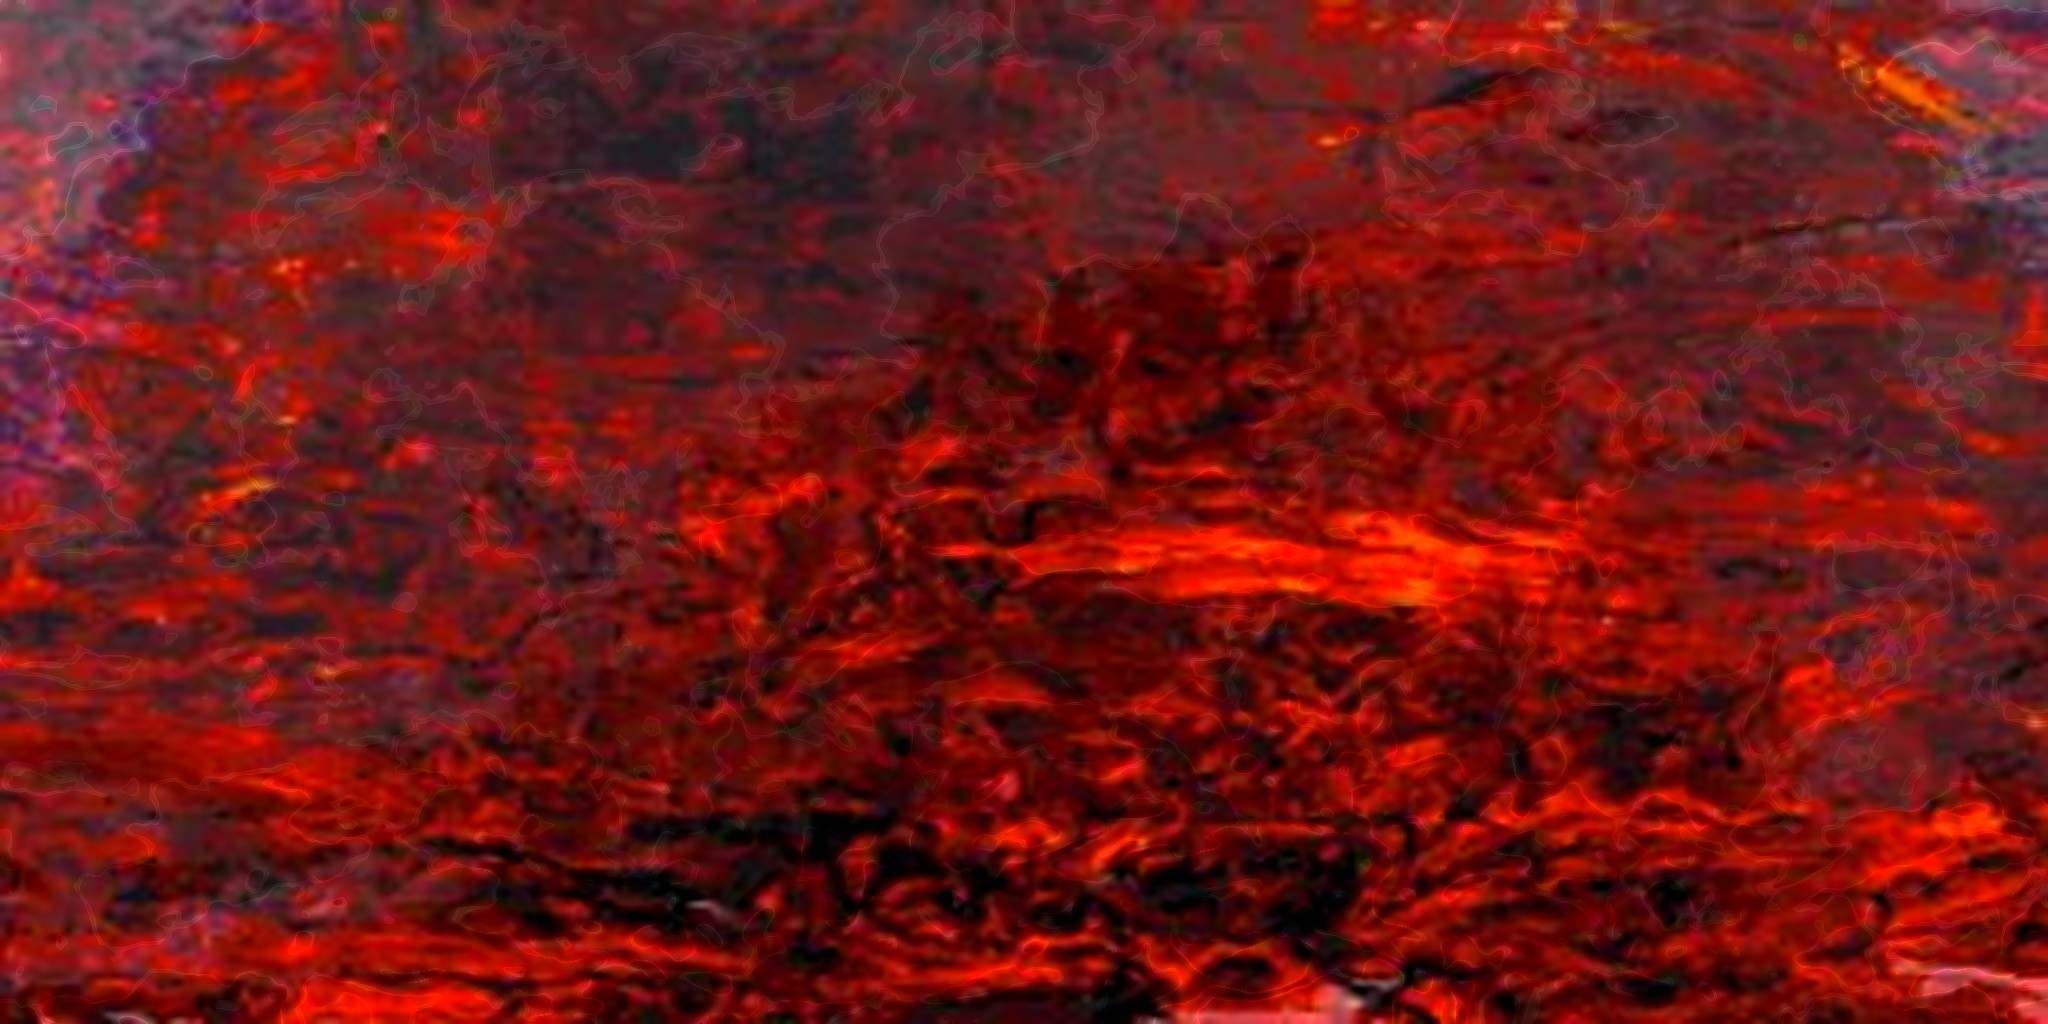
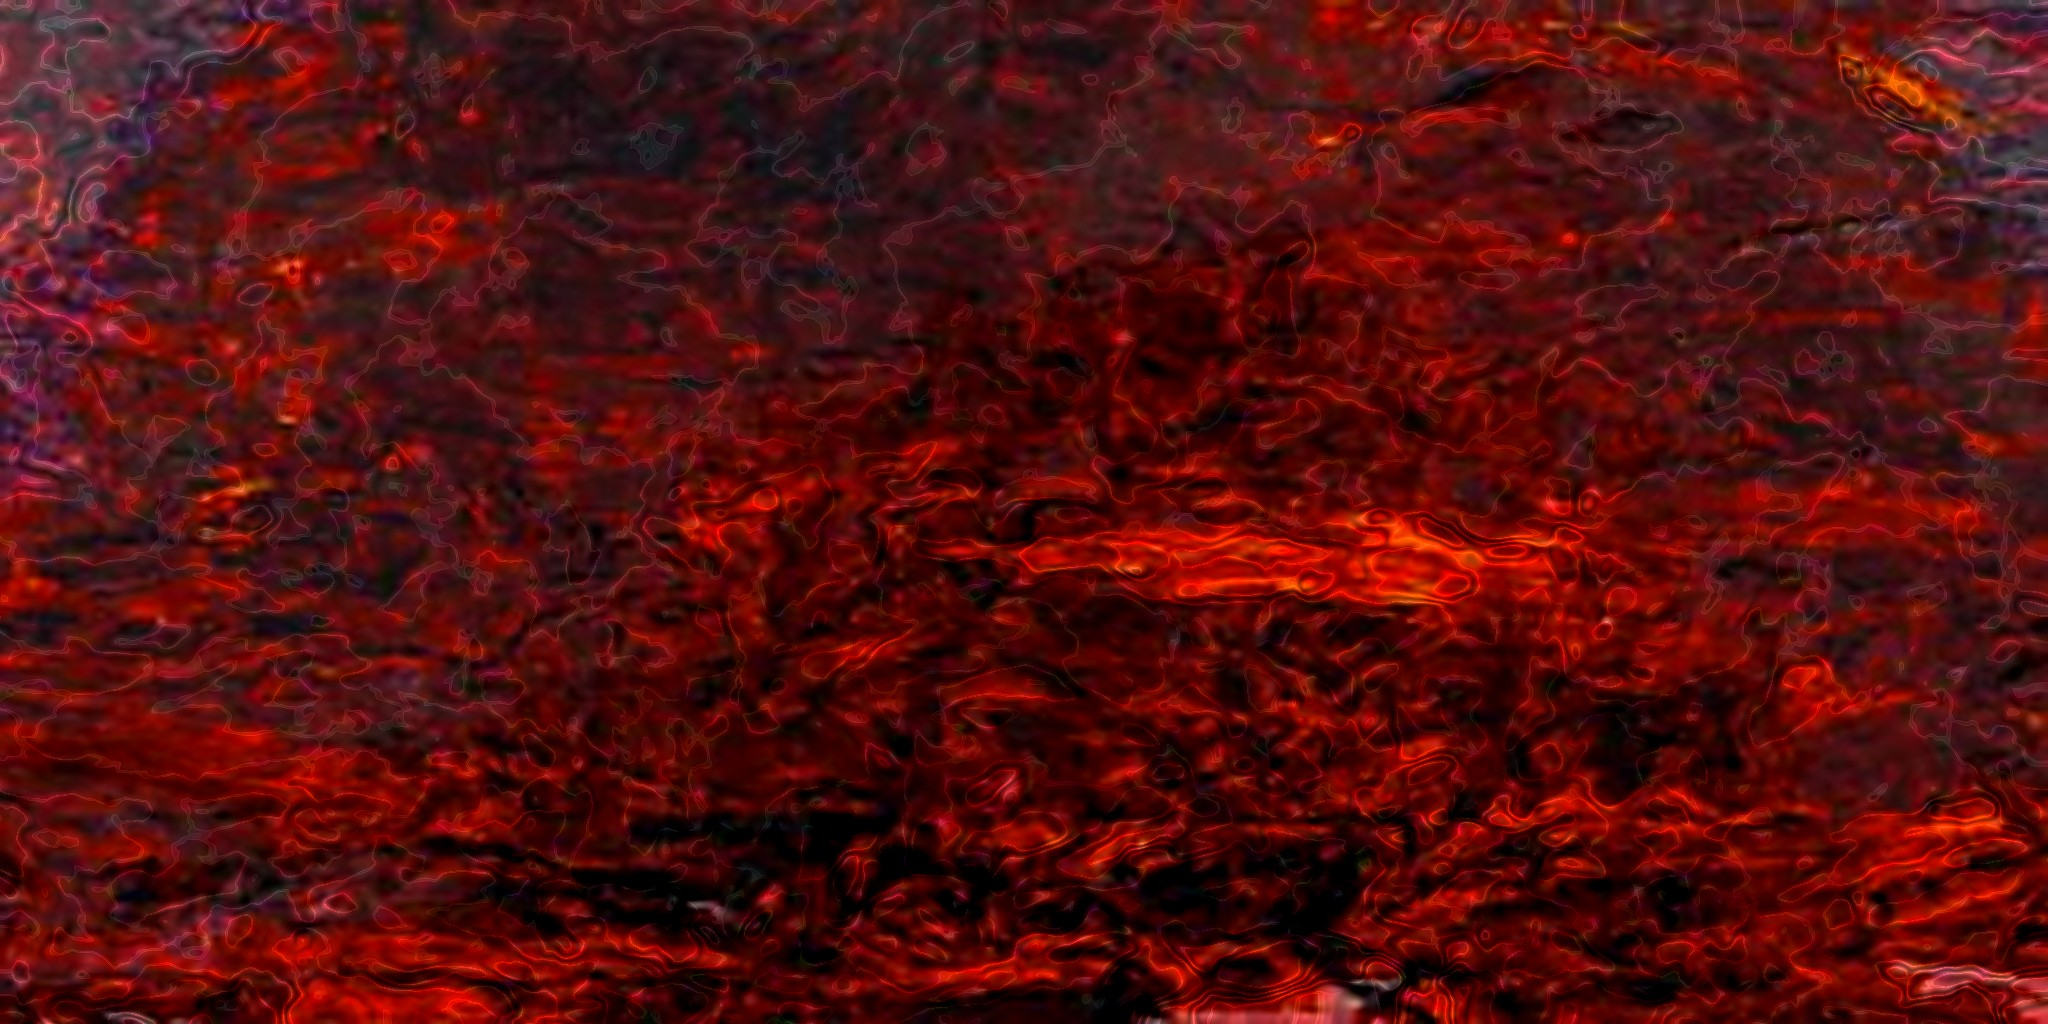
Abalone: darker, more detailed shell (finer layering, smaller pattern, softer gloss)
Claude-Session: https://claude.ai/code/session_01NhV1qVazYq5ooRpGrUVYTv

diff --git a/rod-builder/rod.html b/rod-builder/rod.html
@@ -519,7 +519,7 @@ function sleeve(x0, x1, over, mat, seg = 64) {
   g.setIndex(idx); g.computeVertexNormals(); return new THREE.Mesh(g, mat);
 }
 const wrapMat = canvas => { const t = new THREE.CanvasTexture(canvas); t.colorSpace = THREE.SRGBColorSpace; t.anisotropy = Math.min(16, renderer.capabilities.getMaxAnisotropy());
-  /* SFSW: no glare on the wrap, so the threads read like the designer */ const sh = !!(t.image && t.image.__sfswShiny);   /* SFSW: abalone sits under glossy clear coat */ return new THREE.MeshPhysicalMaterial({ map: t, roughness: sh ? 0.3 : 0.62, metalness: 0, clearcoat: sh ? 1 : 0.25, clearcoatRoughness: sh ? 0.06 : 0.45, envMapIntensity: sh ? 0.9 : 0.55, specularIntensity: sh ? 0.7 : 0.35, alphaTest: 0.5, side: THREE.DoubleSide }); };
+  /* SFSW: no glare on the wrap, so the threads read like the designer */ const sh = !!(t.image && t.image.__sfswShiny);   /* SFSW: abalone sits under glossy clear coat */ return new THREE.MeshPhysicalMaterial({ map: t, roughness: sh ? 0.3 : 0.62, metalness: 0, clearcoat: sh ? 1 : 0.25, clearcoatRoughness: sh ? 0.06 : 0.45, envMapIntensity: sh ? 0.55 : 0.55, specularIntensity: sh ? 0.5 : 0.35, alphaTest: 0.5, side: THREE.DoubleSide }); };
 const hexRGB = h => [1, 3, 5].map(i => parseInt(h.slice(i, i + 2), 16));
 
 // ---------- the designers: real WrapLab tools in the drawer, read straight off their pages ----------
@@ -1970,11 +1970,11 @@ const sfswBoot = (async () => {
   function loadImg(u) { return abImg[u] || (abImg[u] = new Promise(res => { const i = new Image(); i.onload = () => res(i); i.onerror = () => res(null); i.src = u; })); }
   async function paintAbalone(r, url, trimMM) {
     const im = await loadImg(url); if (!im) return; const c = r.canvas, x = c.getContext('2d'), W = c.width, H = c.height;
-    const t = Math.round((trimMM || 0) / (r.lengthMM || 1) * W), x0 = t, x1 = W - t, th = H * 1.6, tw = im.width * th / im.height;   // big shell pieces, like the real wraps
+    const t = Math.round((trimMM || 0) / (r.lengthMM || 1) * W), x0 = t, x1 = W - t, th = H * 1.05, tw = im.width * th / im.height;   // big shell pieces, like the real wraps
     x.save(); x.beginPath(); x.rect(x0, 0, x1 - x0, H); x.clip();
     for (let yy = 0, row = 0; yy < H; yy += th, row++) for (let xx = x0 - (row % 2) * tw / 2, col = 0; xx < x1; xx += tw, col++) {
       x.save(); x.translate(xx + ((col + row) % 2 ? tw : 0), yy); x.scale((col + row) % 2 ? -1 : 1, 1); x.drawImage(im, 0, 0, tw, th); x.restore(); }
-    x.fillStyle = 'rgba(255,255,255,0.05)'; x.fillRect(x0, 0, x1 - x0, H); x.restore();
+    x.restore();
     r.abalone = true; c.__sfswShiny = true;
   }
   async function setGuideWrap(spec) {
